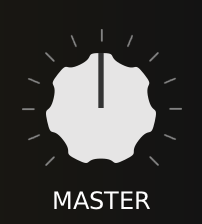
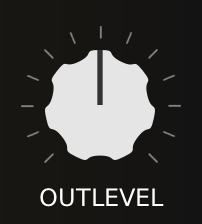
Update screenshots for updated plugin details

diff --git a/README.md b/README.md
@@ -60,14 +60,14 @@ Please note not all hosts and formats support sending these modifier keys to plu
 
 From left to right:
 
-1. **Bypass and Pre-Gain**
+1. **Bypass and Input Level**
 
 <img height="112" alt="image" src="https://raw.githubusercontent.com/AidaDSP/AIDA-X/main/docs/Screenshot-params-1.png">
 
 On/Off bypass switch, lets the audio pass-through when off.  
 Integrates with the host provided bypass controls where possible.
 
-Pre-Gain attenuates / emphasizes the input signal before sending it to the Amp Model.
+Input Level attenuates / emphasizes the input signal before sending it to the Amp Model.
 
 2. **EQ tone controls (part 1)**
 
@@ -85,7 +85,7 @@ Extra EQ related controls.
 Depth is a Peaking or Parametric EQ to boost the low end.  
 Presence is an High Shelf EQ to boost the high end.
 
-4. **Master Gain**
+4. **Output Level**
 
 <img height="112" alt="image" src="https://raw.githubusercontent.com/AidaDSP/AIDA-X/main/docs/Screenshot-params-4.png">
 
